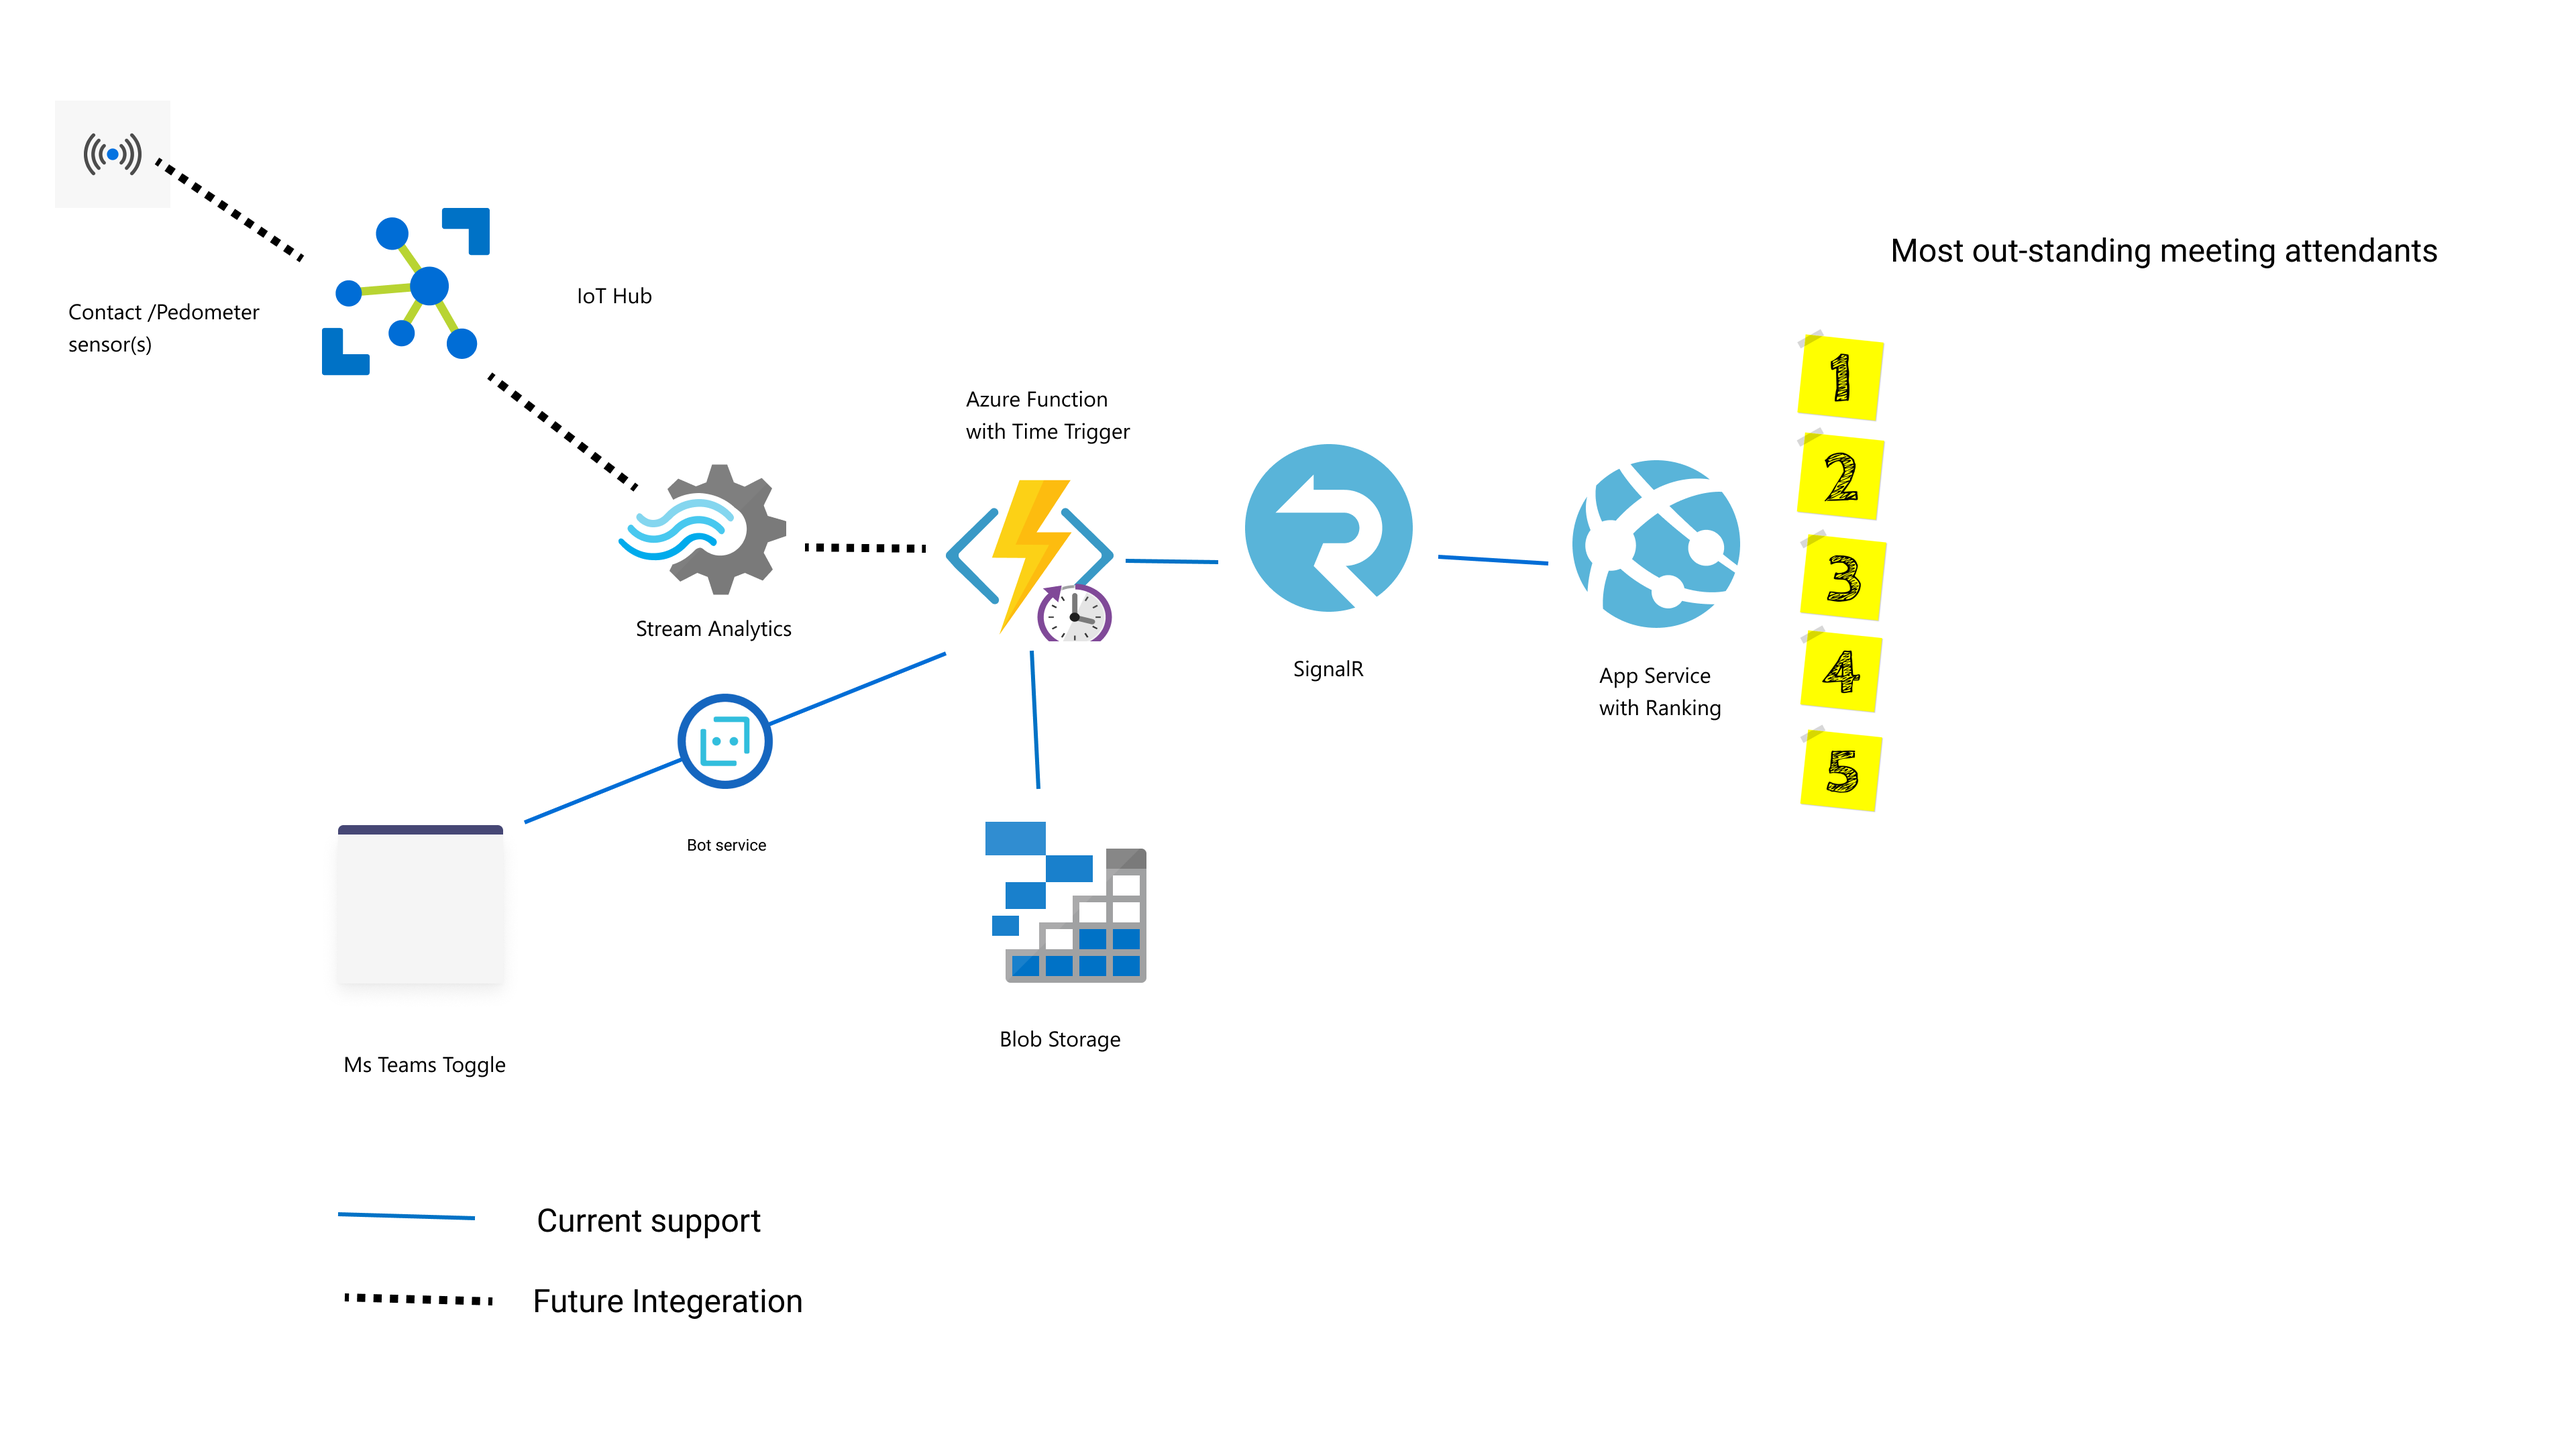
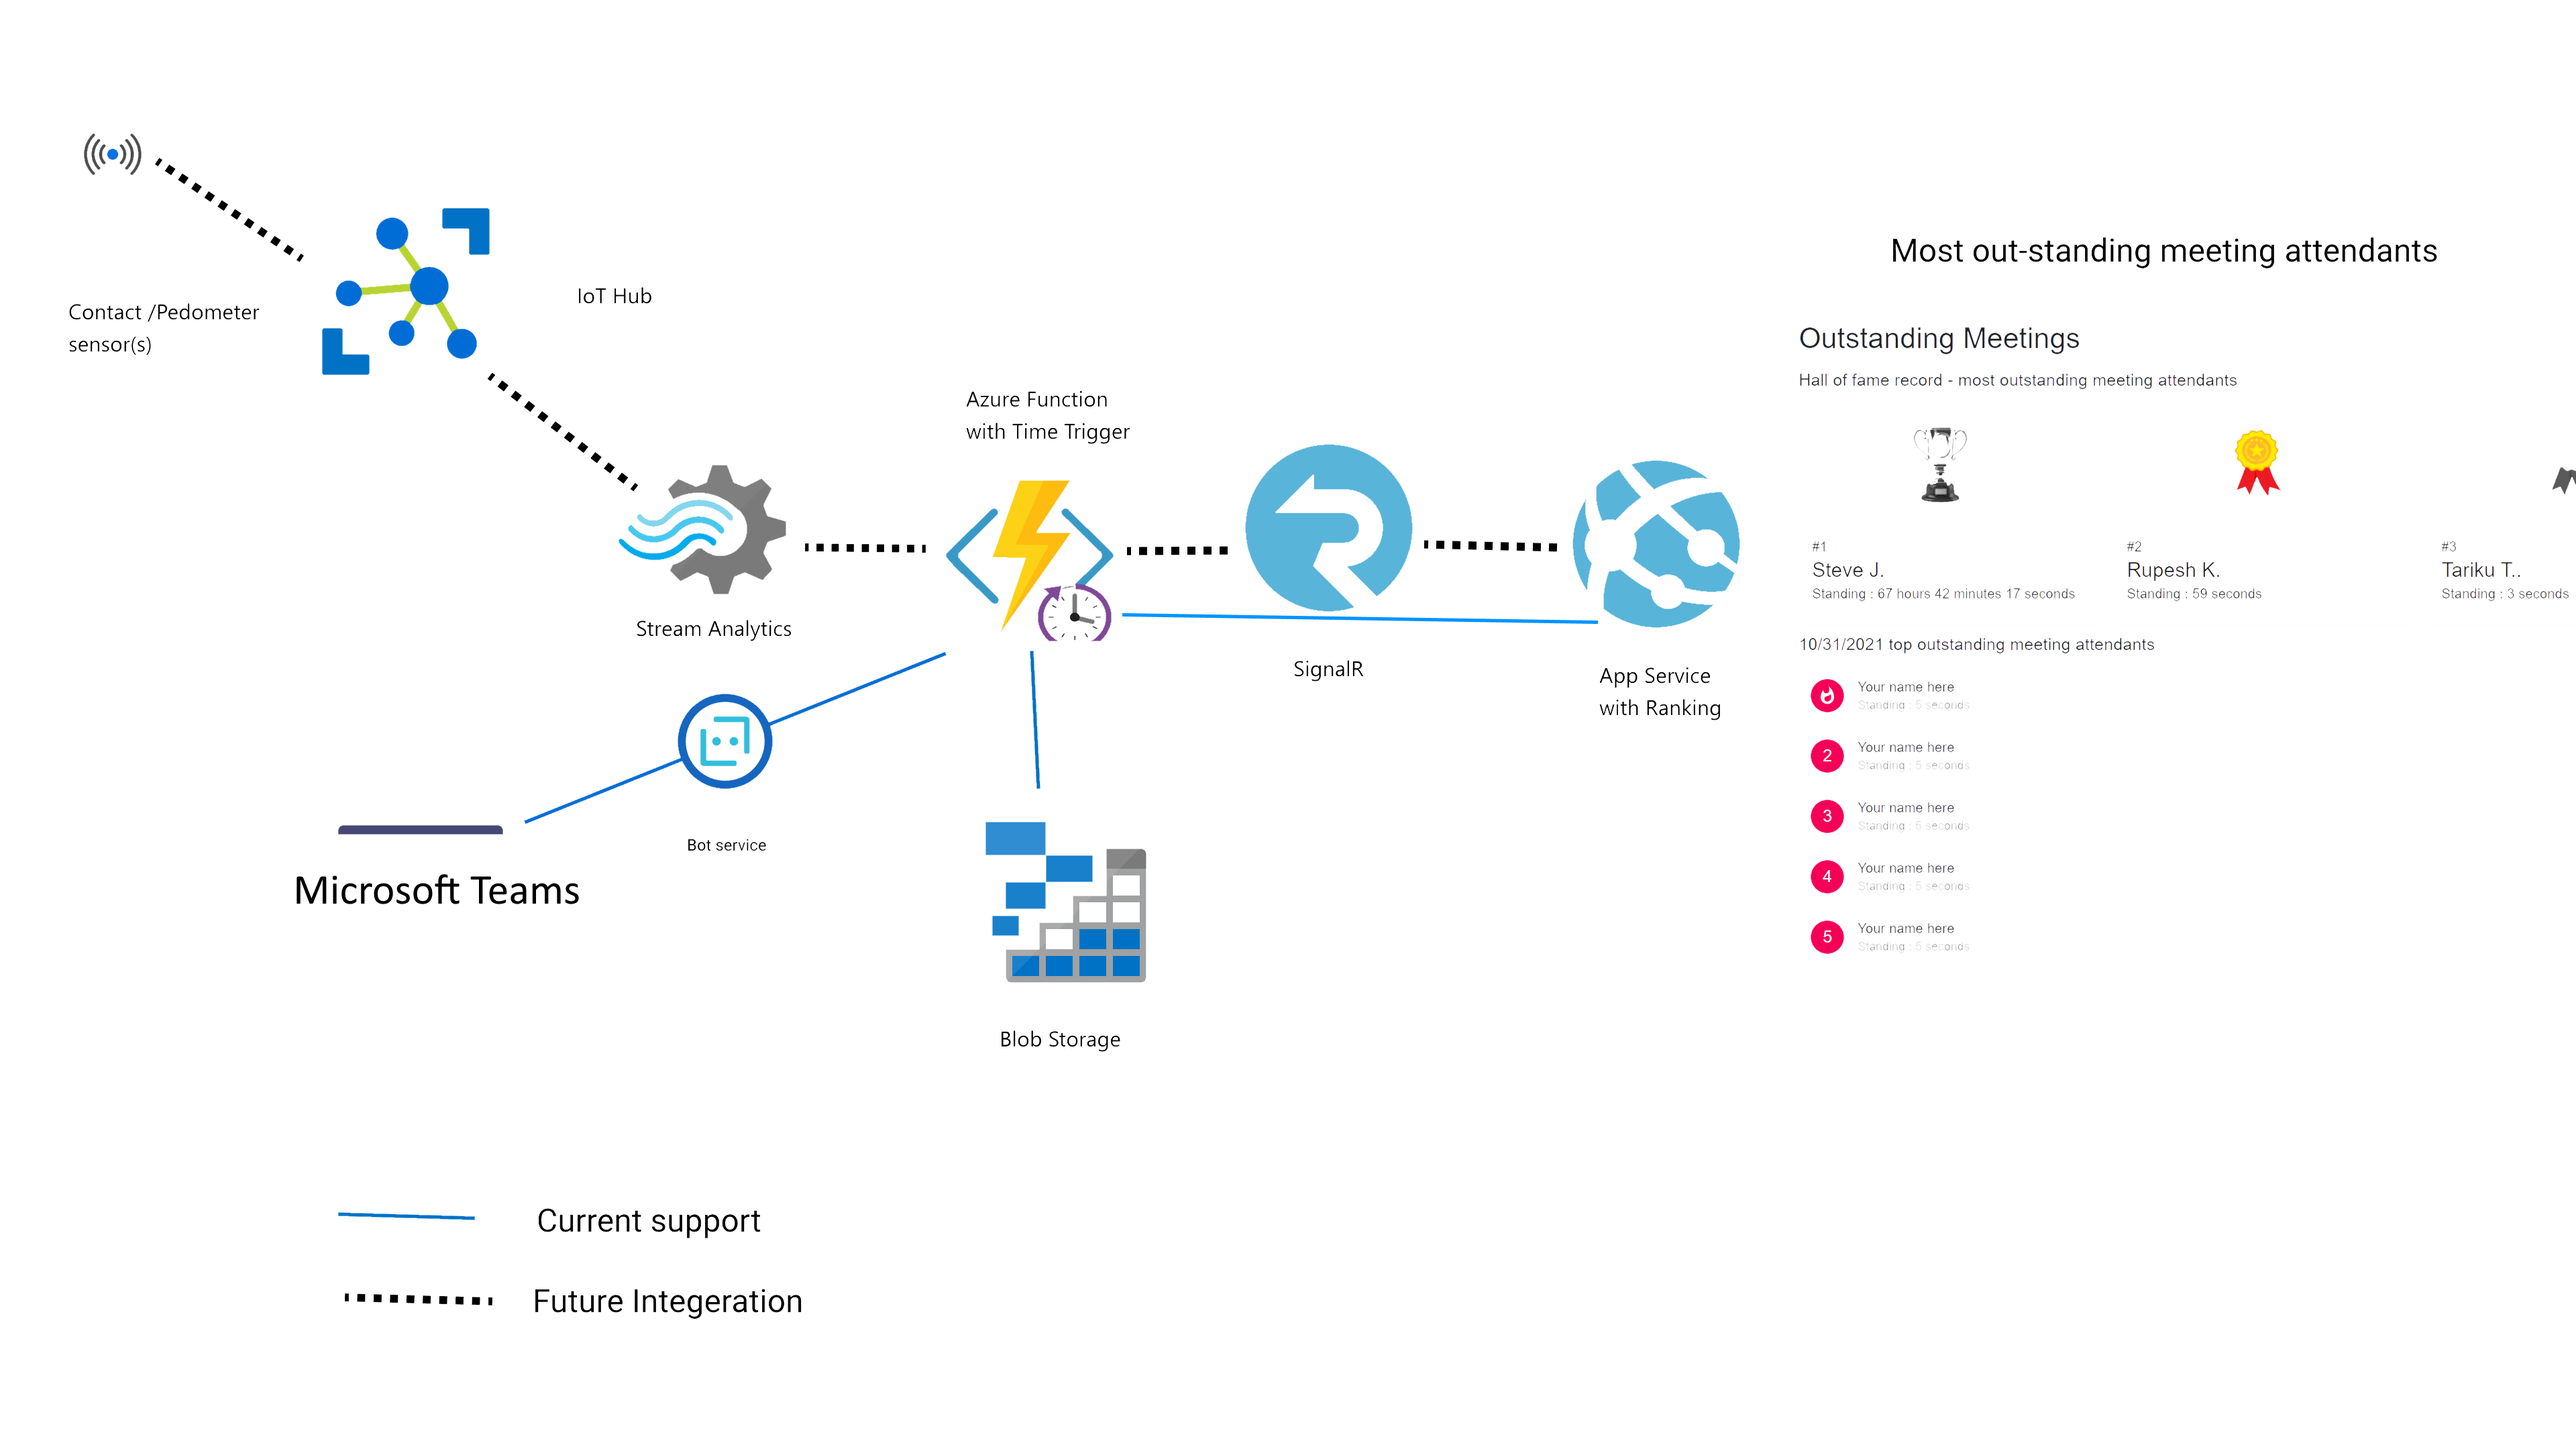
Clean up.

diff --git a/function/OutstandingMeetings/FnParticipant.cs b/function/OutstandingMeetings/FnParticipant.cs
@@ -24,7 +24,7 @@ namespace FnOutstandingMeetings
             var payload = req.Form["Payload"];
 
             var groupClient = new DataAccess<MeetingGroup>(meetingGroupTable);
-            var response = new MeetingParticipantReponse();
+            var response = new ParticipantActivity();
 
             if (!string.IsNullOrEmpty(payload))
             {
@@ -37,10 +37,14 @@ namespace FnOutstandingMeetings
 
                 if (dbGroup != null)
                 {
-
                     var participants = string.IsNullOrEmpty(dbGroup.ParticipantsSerialized) ? new List<MeetingParticipant>() :
                         JsonConvert.DeserializeObject<List<MeetingParticipant>>(dbGroup.ParticipantsSerialized);
                     var participant = participants.Where(p => p.Id == participantId).FirstOrDefault();
+                    var participantActivity = new ParticipantActivity
+                    {
+                        EpochTimeStamp = ConvertFromUnixTimestamp(DateTime.Now),
+                        Status = (StandingStatus)status
+                    };
 
                     if (participant == null)
                     {
@@ -50,11 +54,7 @@ namespace FnOutstandingMeetings
                             GroupId = groupId,
                             Activity = new List<ParticipantActivity>
                         {
-                            new ParticipantActivity
-                            {
-                                EpochTimeStamp = ConvertFromUnixTimestamp(DateTime.Now),
-                                Status = (StandingStatus) status
-                            }
+                           participantActivity
                         }
                         };
                         participants.Add(newparticipant);
@@ -66,16 +66,13 @@ namespace FnOutstandingMeetings
                             participant.Activity = new List<ParticipantActivity>();
                         }
 
-                        participant.Activity.Add(
-                            new ParticipantActivity
-                            {
-                                EpochTimeStamp = ConvertFromUnixTimestamp(DateTime.Now),
-                                Status = (StandingStatus)status
-                            });
+                        participant.Activity.Add(participantActivity);
                     }
 
                     dbGroup.ParticipantsSerialized = JsonConvert.SerializeObject(participants);
                     await groupClient.ReplaceAsync(dbGroup);
+
+                    response = participantActivity;
                 }
             }     
             return (ActionResult)new OkObjectResult(response);

diff --git a/README.md b/README.md
@@ -8,7 +8,6 @@
 - Azure Function
 - Blob Storage
 - Microsoft Teams Bot
-- SignalR
 
 ## Architecture ##
 ![Out-standing Architecture](readme/images/arch.png "Architecture")
@@ -26,17 +25,15 @@ Contact sensors to standing tables and wearable pedometer sensor will be integra
 Future integration of sensors will make the solution more accessible by providing alternate ways to stay active during meetings for individuals with limited mobility.
 
 ## Project Structure ##
-- Folder `_deployment` cloud template and scripts to deploy the solution
+- Folder `.github` yaml templates and scripts to deploy resources to Azure
 - Folder `app-service` Azure App Service
 - Folder `bot` Microsoft Teams integrated Bot
-- Folder `SignalR` Real time communication with web sockets
 - Folder `function` Azure Function
-- Folder `storage` Azure Storage
 
 ## Contributors ##
 - Rupesh Kurvankattil 
-- Tariku Tessema
 - Steve Jones
+- Tariku Tessema
 
 ## References
 <a id="1">[1]</a> 

diff --git a/appservice/README.md b/appservice/README.md
@@ -1,1 +1,11 @@
 # App Service #
+
+App service hosts the website that displays the standing status of meeting participants. 
+
+## Current State ##
+
+Website using pulling strategy to capture the updated status of meeting participants from an Azure function end point.
+
+## Future State ##
+
+The website will support web sockets to get instant update status of meeting participants using various data sources such as Ms Bot in Teams, contact sensors from IoT Hub.
